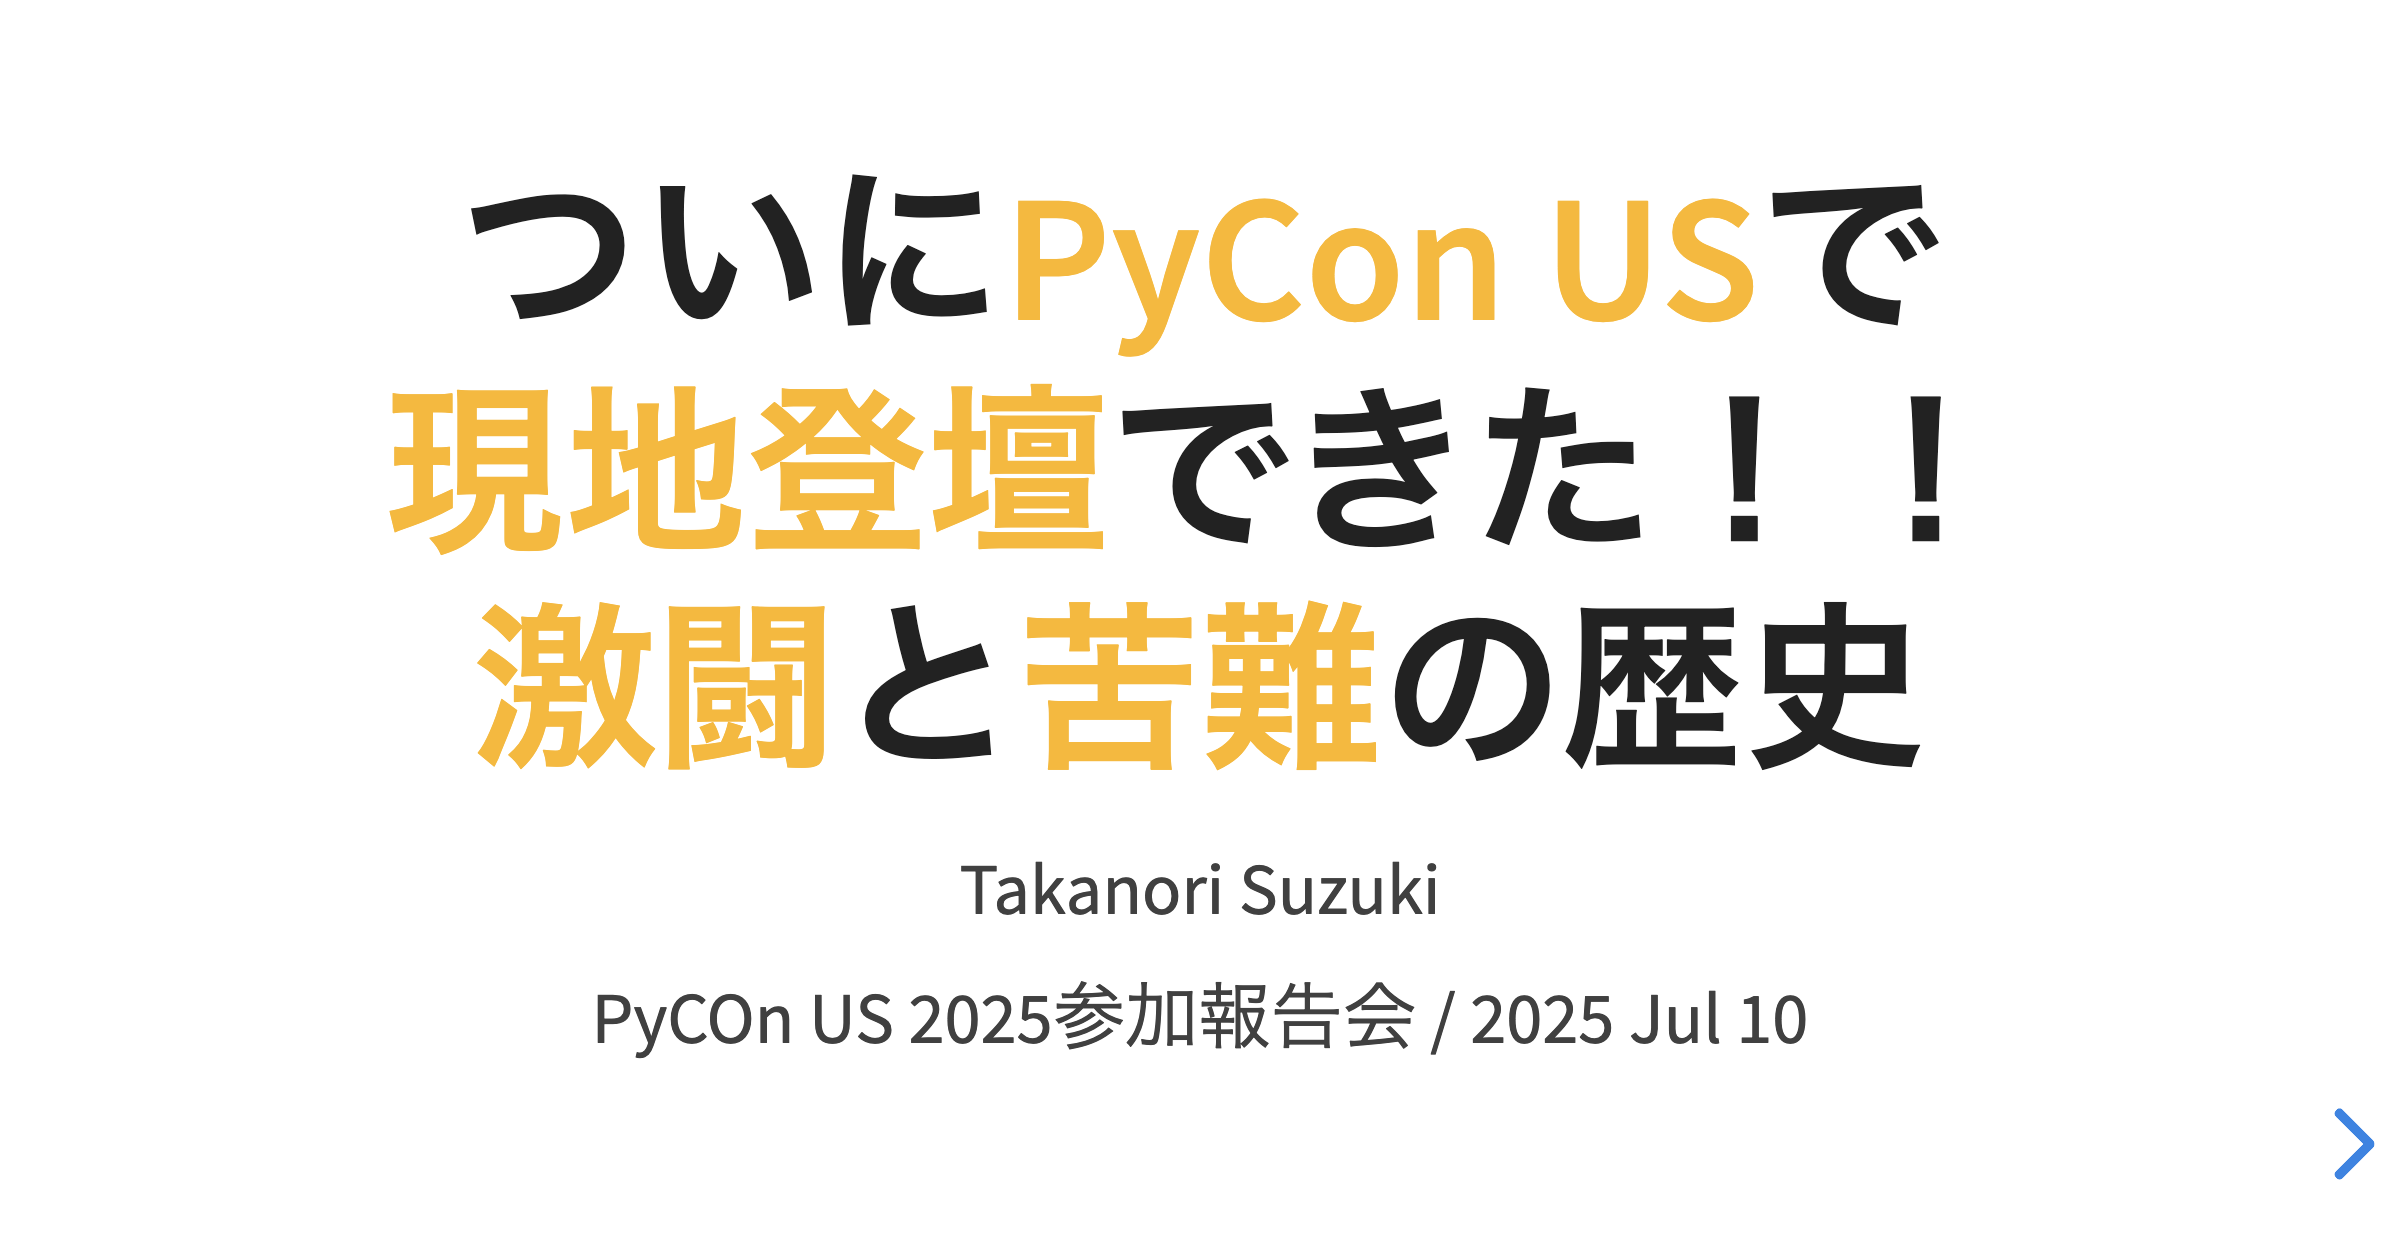
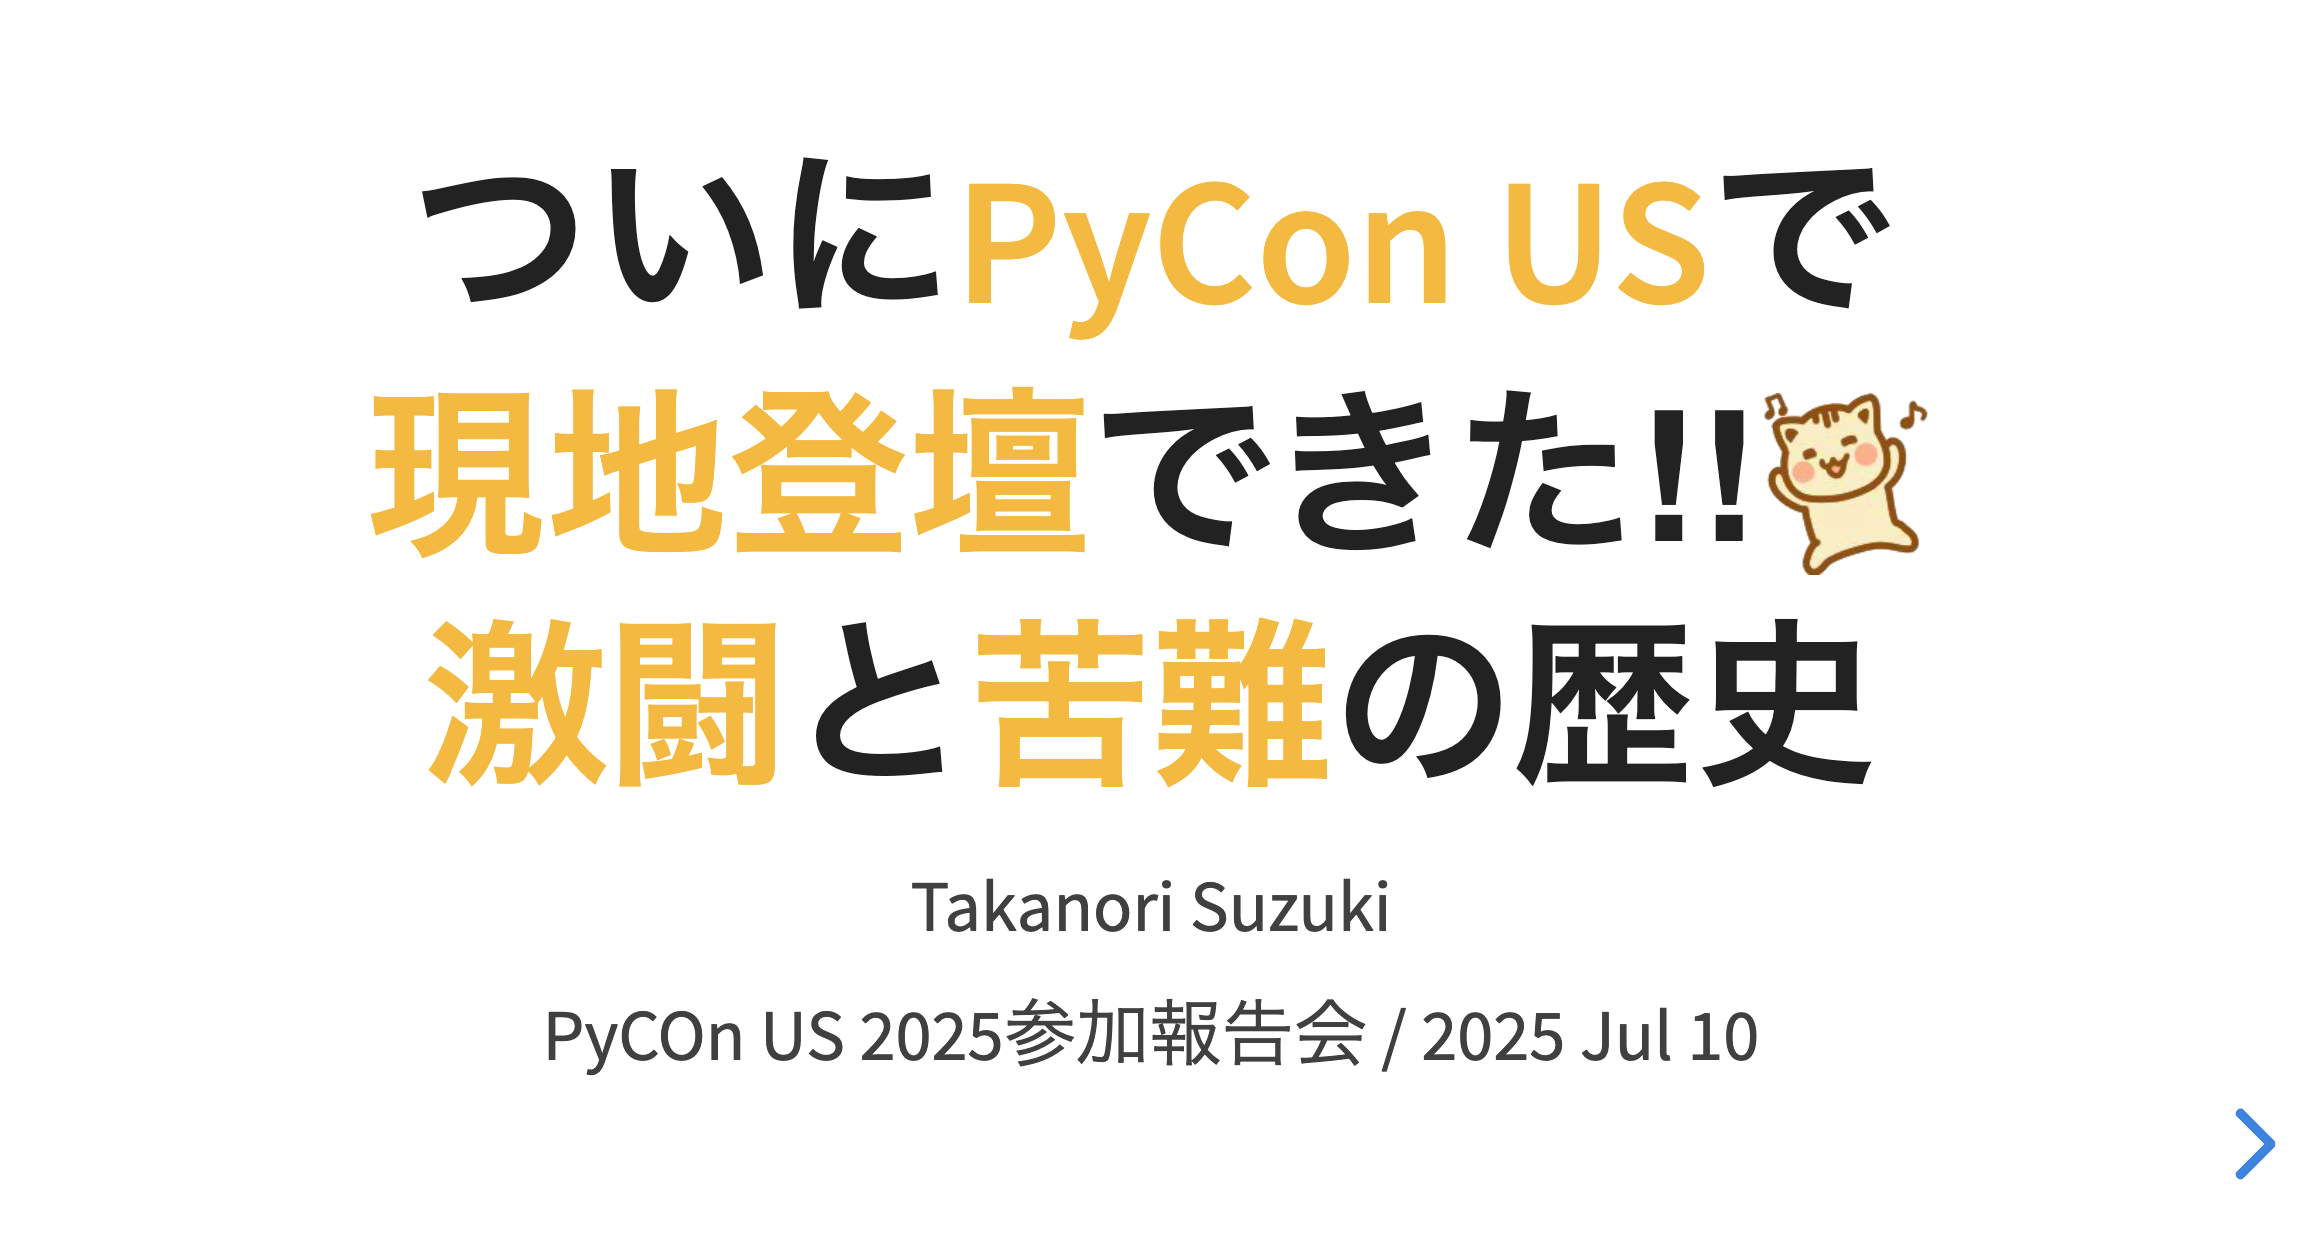
refs #135 update slides

diff --git a/slides/20250710usreport/index.md b/slides/20250710usreport/index.md
@@ -5,10 +5,245 @@
 .. |cover| image:: images/20250710usreport.png
 ```
 
-# ついに**PyCon US**で**現地登壇**できた！！**激闘**と**苦難**の歴史
+# ついに**PyCon US**で**現地登壇**できた‼{nekochan}`yatta`**激闘**と**苦難**の歴史
 
 Takanori Suzuki
 
 PyCOn US 2025参加報告会 / 2025 Jul 10
 
-## あああ
+## **Who** am I? / お前 **誰よ** 👤
+
+* Takanori Suzuki / 鈴木 たかのり ({fab}`twitter` [@takanory](https://twitter.com/takanory))
+* [BeProud](https://www.beproud.jp/) 取締役 / Python Climber
+* [PyCon JP Association](https://www.pycon.jp/) 代表理事
+* [Python Boot Camp](https://www.pycon.jp/support/bootcamp.html) 講師、[Python mini Hack-a-thon](https://pyhack.connpass.com/) 主催、[Pythonボルダリング部](https://kabepy.connpass.com/) 部長
+
+![takanory profile](/assets/images/sokidan-square.jpg)
+![kuro-chan and kuri-chan](/assets/images/kurokuri.jpg)
+
+### 趣味(?)：**海外PyCon**登壇 {nekochan}`travel`
+
+### **PyCon現地登壇**の記録[^talklog]
+
+* 2019：🇵🇭🇹🇭🇲🇾🇯🇵🇹🇼🇸🇬🇮🇩
+* 2020〜2021：オンライン開催
+* 2022：🇮🇪🇯🇵
+* 2023：🇰🇷🇹🇼🇯🇵🇭🇰
+* 2024：🇹🇼🇯🇵🇮🇩
+
+[^talklog]: <https://slides.takanory.net/> 調べ
+
+### アメリカでは**現地登壇なし** {nekochan}`naki`
+
+### 2019年 ポスター発表(Cleveland) [^2019poster]
+
+```{image} images/guido-with-takanory.jpg
+:width: 50%
+:alt: Guido with takanory
+```
+
+[^2019poster]: [`us.pycon.org/2019`](https://us.pycon.org/2019/)、[レポート記事](https://gihyo.jp/news/report/01/us-pycon2019/0004)、[ポスター（PDF）](https://raw.githubusercontent.com/takanory/slides/master/slides/20190510pycon/pycon-poster-pythonbootcamp.pdf)
+
+### 2023年 参加のみ(Salt Lake City) [^2023report]
+
+```{image} images/takanory-with-friends.jpg
+:width: 90%
+:alt: takanory with friends
+```
+
+[^2023report]: [`us.pycon.org/2023`](https://us.pycon.org/2023/)、[レポート記事](https://gihyo.jp/list/group/PyCon-US-2023-%E5%8F%82%E5%8A%A0%E3%83%AC%E3%83%9D%E3%83%BC%E3%83%88#rt:/article/2023/05/pycon-us2023-001)
+
+### 2024年 Lightning Talk(Pittsburgh) [^2024lt]
+
+```{image} images/takanory-lt2024.jpg
+:width: 80%
+:alt: takanory LT
+```
+
+[^2024lt]: [`us.pycon.org/2024`](https://us.pycon.org/2024/)、[レポート記事](https://gihyo.jp/article/2024/07/pycon-us-2024)、[YouTube](https://www.youtube.com/watch?v=p_Vx3gDHeUI&t=506s)
+
+## 2025年 Pittsburgh
+
+[`us.pycon.org/2025`](https://us.pycon.org/2025/)
+
+### ついに**現地登壇**できた‼[^2025talk] {nekochan}`medetai`
+
+```{image} images/takanory-talk2025.jpg
+:width: 80%
+:alt: takanory talk
+```
+
+[^2025talk]: [レポート記事](https://gihyo.jp/list/group/PyCon-US-2025%E5%8F%82%E5%8A%A0%E3%83%AC%E3%83%9D%E3%83%BC%E3%83%88#rt:/article/2025/06/pycon-us-2025-01)、[YouTube](https://www.youtube.com/watch?v=3wQxP-GfT-A)
+
+### さらに**ライトニングトーク**も‼[^2025lt] {nekochan}`cracker`
+
+```{image} images/takanory-lt2025.jpg
+:width: 80%
+:alt: takanory lightning talk
+```
+
+[^2025lt]: [YouTube](https://www.youtube.com/watch?v=lXngPPRaqGg&t=1009s)
+
+## その背景には**激闘**と**苦難**の歴史があった... {nekochan}`yabai`
+
+### **登壇**までの道のり {nekochan}`walking`
+
+```{revealjs-fragments}
+* イベントが演題を**募集**（CfP） {nekochan}`kamon`
+* トークネタを考えて**申し込み** {nekochan}`benkyou`
+* イベント側で**レビュー** {nekochan}`docchidemo-ii`
+* **採択**‼ {nekochan}`ok` または**不採択**‼ {nekochan}`ng`
+* 採択されたら**登壇** {nekochan}`clap`
+```
+
+## PyCon US 2019
+
+* ポスターが採択された！
+
+![PyCon US 2019 Poster Accepted](images/pyconus2019accept.png)
+
+```{revealjs-break}
+```
+
+* 実はトークは不採択だった...
+* 来年こそは...
+
+![PyCon US 2019 Talk Rejected](images/pyconus2019reject.png)
+
+## PyCon US 2020
+
+* トークが採択された！！！！ {nekochan}`medetai`
+
+![PyCon US 2020 Talk Accepted](images/pyconus2020accept.png)
+
+```{revealjs-break}
+```
+
+* あれ...2025が初登壇では...？ {nekochan}`hate`
+
+### {nekochan}`virus;2em` COVID-19 {nekochan}`virus;2em`
+
+### 3月6日：COVID-19の状況を注視（4月15日に開催予定）[^2020blog1]
+
+```{image} images/pyconus2020blog1.png
+:width: 70%
+```
+
+[^2020blog1]: <https://pycon.blogspot.com/2020/03/march-6-update-on-covid-19.html>
+
+### 3月20日：イベントキャンセルを決定[^2020blog2]
+
+```{image} images/pyconus2020blog2.png
+:width: 70%
+```
+
+[^2020blog2]: <https://pycon.blogspot.com/2020/03/pycon-us-2020-in-pittsburgh.html>
+
+
+### 3月28日：運営からメールが届く
+
+```{image} images/pyconus2020email.png
+:width: 70%
+```
+
+```{revealjs-break}
+```
+
+* Emily「プレゼンを録画して送ってね」
+* takanory：Zoom録画で発表ビデオを作成
+
+### 4月15日：オンラインイベントを開催[^2020blog3]
+
+```{image} images/pyconus2020blog3.png
+:width: 70%
+```
+
+[^2020blog3]: <https://pycon.blogspot.com/2020/04/pycon-2020-online-launch_15.html>
+
+### [`us.pycon.org/2020/online/`](https://us.pycon.org/2020/online/)
+
+```{image} images/pycon2020online.png
+:width: 100%
+```
+
+### こうして**幻の初登壇**となりました... {nekochan}`naki`
+
+## PyCon US 2021
+
+* オンラインなのでプロポーザルは出さず
+
+## PyCon US 2022
+
+### Unfortunately...
+
+![](images/pyconus2022reject.png)
+
+### Congratulations!!!! {nekochan}`yatta`
+
+![](images/pyconus2022accept.png)
+
+### PyCon US 2022
+
+* あれ...2022年...？（2回目） {nekochan}`hate`
+
+### COVID-19にかかる {nekochan}`virus`
+
+うそ、だろ...
+
+### リモート発表を打診→NG
+
+![](images/pyconus2022remote.png)
+
+### 詰んだ... {nekochan}`tunda`
+
+### こうして**幻の初登壇**となりました... {nekochan}`naki`
+
+2年ぶり2回目
+
+## PyCon US 2023
+
+### Unfortunately x 2 {nekochan}`naki`{nekochan}`naki`
+
+```{image} images/pyconus2023reject1.png
+:width: 60%
+```
+
+```{image} images/pyconus2023reject2.png
+:width: 60%
+```
+
+### 片方は去年通ったネタなのに！！！
+
+### 社会は厳しい... {nekochan}`tobotobo`
+
+## PyCon US 2024
+
+### はいはい、Unfortunately {nekochan}`kyomu`
+
+![](images/pyconus2024reject.png)
+
+## そしてPyCon US 2025
+
+### ついに**現地登壇**できた!! {nekochan}`big-love`
+
+![](images/takanory-talk1.jpg)
+
+### **トーク後**にたくさん**質問**がきた!! {nekochan}`juutai`
+
+![](images/takanory-talk2.jpg)
+
+## ついに**PyCon US**で**現地登壇**できた‼**激闘**と**苦難**の歴史<br />完
+
+## 点滴石を穿つ {nekochan}`tuntun`🪨
+
+## Thank You {nekochan}`pray`
+
+{fas}`desktop` [slides.takanory.net](https://slides.takanory.net/)
+
+{fab}`twitter` [takanory](https://twitter.com/takanory)
+{fab}`github` [takanory](https://github.com/takanory/)
+{fab}`linkedin` [takanory](https://www.linkedin.com/in/takanory/)
+{fab}`untappd` [takanory](https://untappd.com/user/takanory/)
+
+![takanory profile](/assets/images/sokidan-square.jpg)
+![kuro-chan and kuri-chan](/assets/images/kurokuri.jpg)
